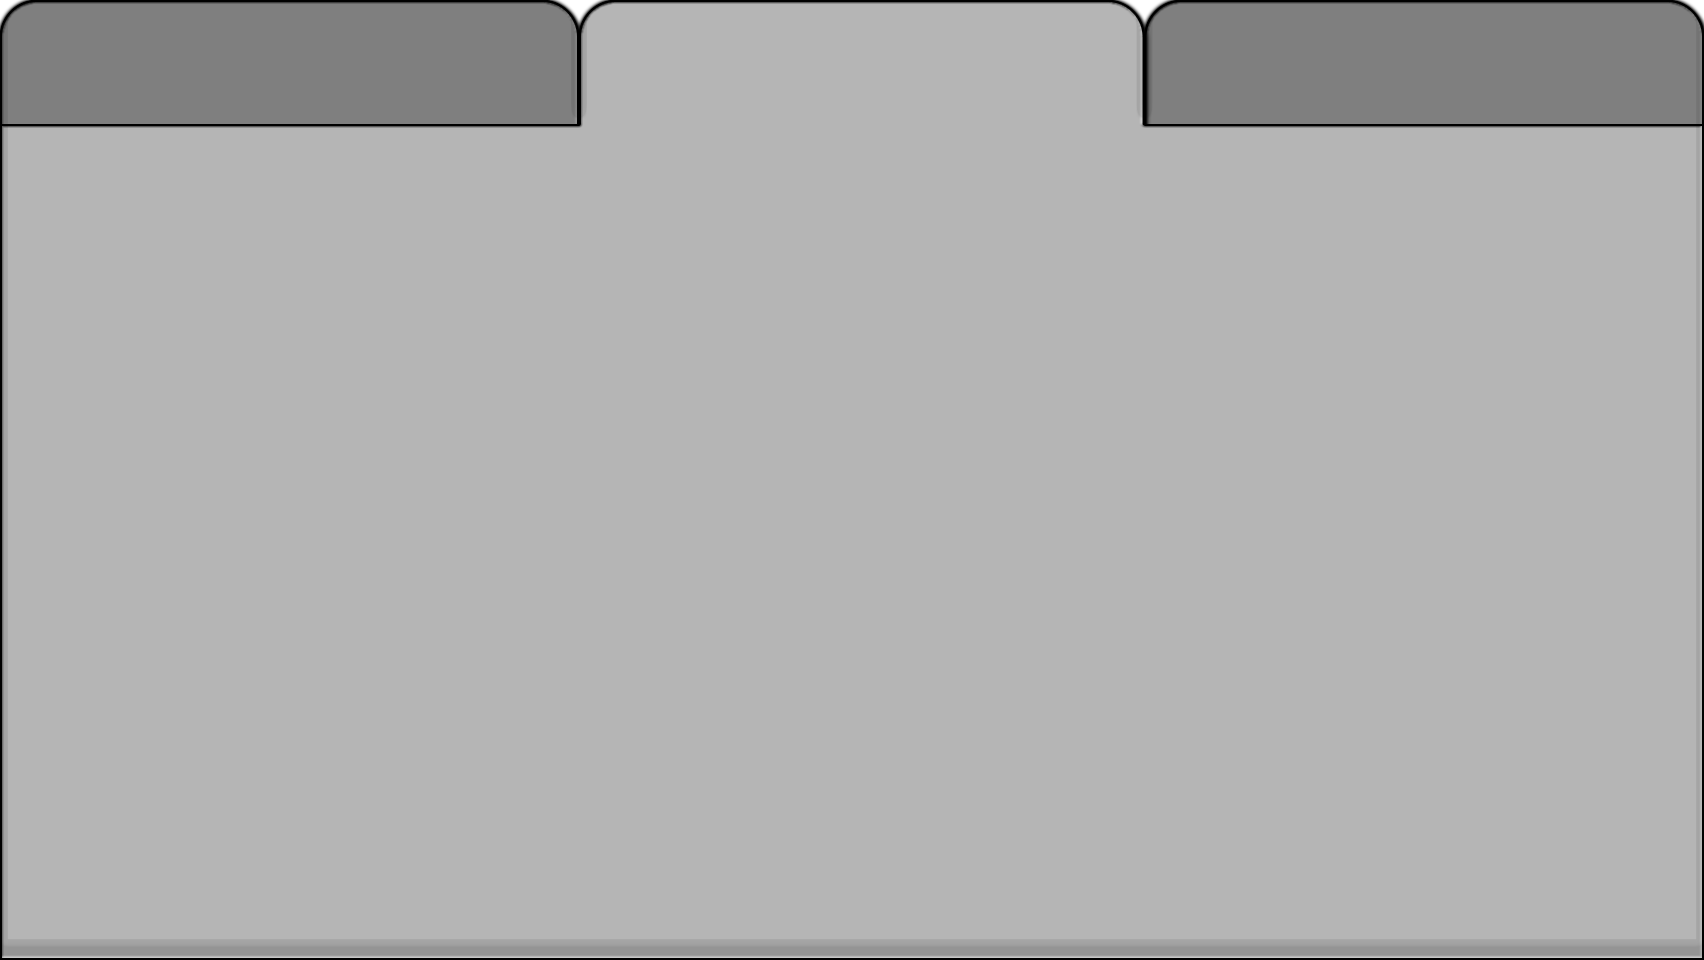
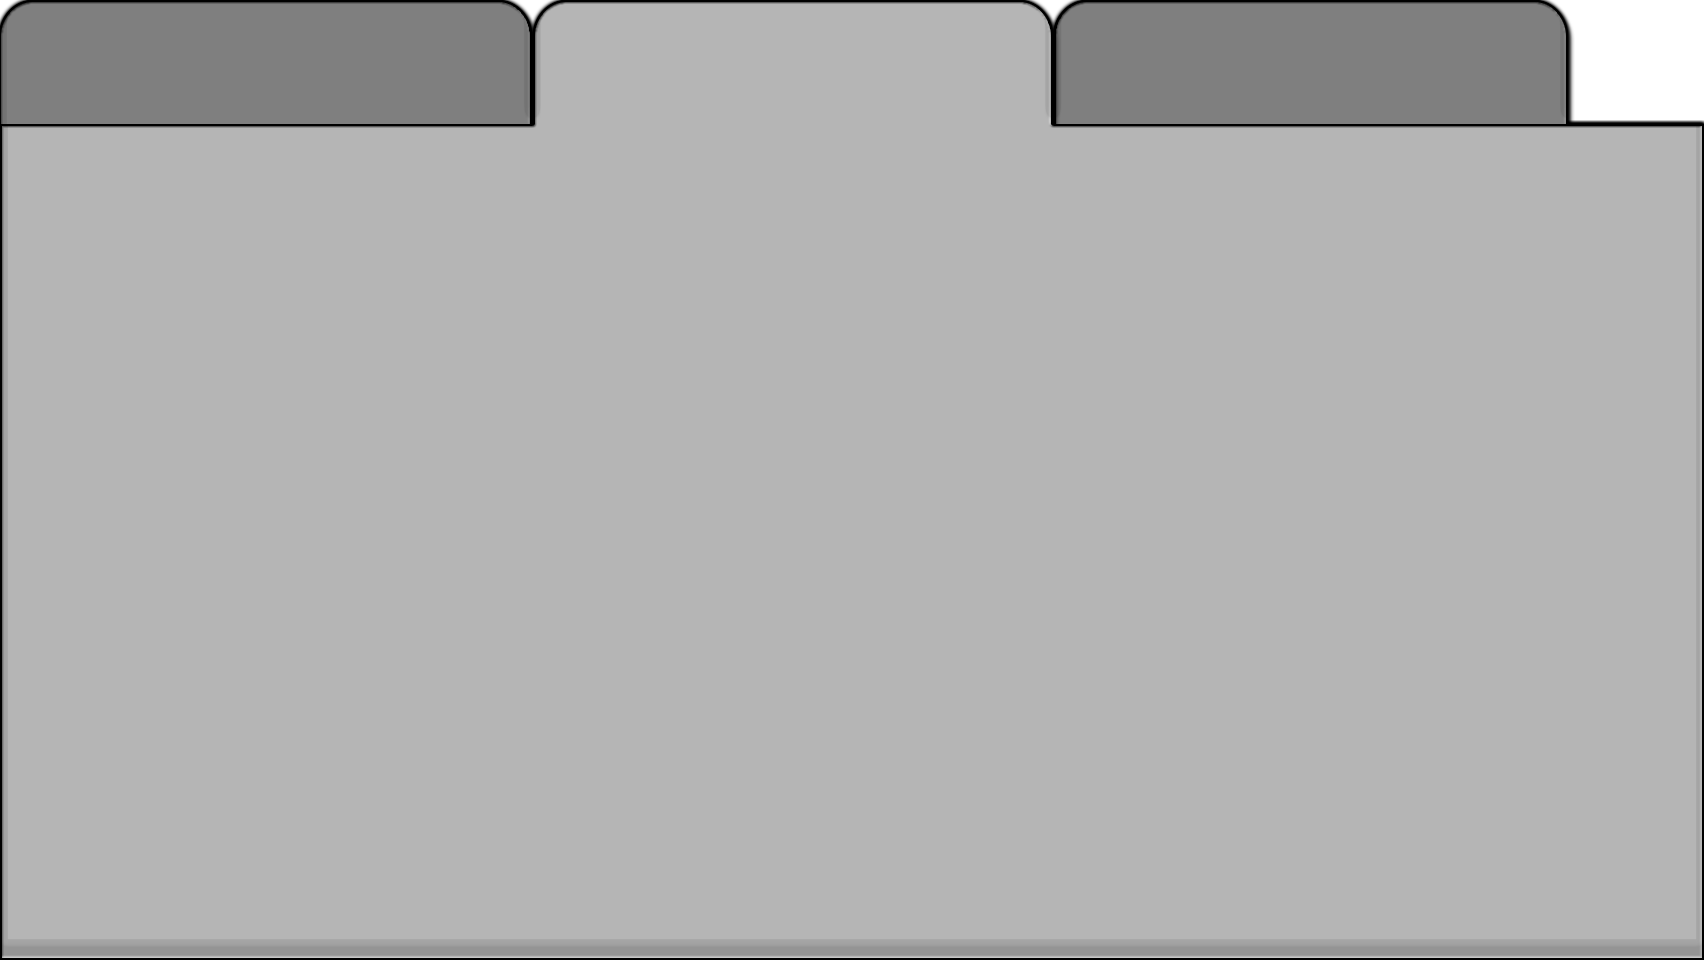
Level Select Home Button and Layout Changes

diff --git a/Classes/LevelSelect.cpp b/Classes/LevelSelect.cpp
@@ -45,7 +45,8 @@ bool LevelSelect::init()
     cocos2d::Vector<MenuItem*> menuItems;
     
     auto onlineLevelsButton = MenuItemImage::create("LevelSelectOnlineButton.png", "LevelSelectOnlineButton.png", this, menu_selector(LevelSelect::onlineCallback));
-    onlineLevelsButton->setPosition(Point(visibleSize.width / 2.0, visibleSize.height));
+    float availableWidth = visibleSize.width - 155 * MainMenu::screenScale.x;
+    onlineLevelsButton->setPosition(Point(availableWidth / 2.0, visibleSize.height));
     onlineLevelsButton->setAnchorPoint(Point(0.5,1.0));
     menuItems.pushBack(onlineLevelsButton);
     
@@ -57,7 +58,7 @@ bool LevelSelect::init()
     menuItems.pushBack(localLevelsButton);
     
     auto myLevelsButton = MenuItemImage::create("LevelSelectMyLevelsButton.png", "LevelSelectMyLevelsButton.png", this, menu_selector(LevelSelect::myLevelsCallback));
-    myLevelsButton->setPosition(Point(visibleSize.width, visibleSize.height));
+    myLevelsButton->setPosition(Point(availableWidth + 11, visibleSize.height));
     myLevelsButton->setAnchorPoint(Point(1.0,1.0));
     menuItems.pushBack(myLevelsButton);
     
@@ -72,6 +73,11 @@ bool LevelSelect::init()
     scrollDownButton->setPosition(Point(visibleSize.width / 2.0, 15));
     scrollDownButton->setAnchorPoint(Point(0.5,0.0));
     menuItems.pushBack(scrollDownButton);
+    
+    auto homeButton = MenuItemImage::create("home.png", "home.png", this, menu_selector(LevelSelect::homeCallback));
+    homeButton->setPosition(Point(visibleSize.width - 5, visibleSize.height - 5));
+    homeButton->setAnchorPoint(Point(1.0,1.0));
+    menuItems.pushBack(homeButton);
     
     onlineLevelsBackground = Sprite::create("LevelSelectOnline.png");
     myLevelsBackground = Sprite::create("LevelSelectMyLevels.png");
@@ -102,6 +108,7 @@ bool LevelSelect::init()
     localLevelsBackground->setScale(MainMenu::screenScale.x, MainMenu::screenScale.y);
     myLevelsBackground->setScale(MainMenu::screenScale.x, MainMenu::screenScale.y);
     onlineLevelsBackground->setScale(MainMenu::screenScale.x, MainMenu::screenScale.y);
+    homeButton->setScale(MainMenu::screenScale.x * 0.75, MainMenu::screenScale.y * 0.75);
     background->setScale(visibleSize.width / background->getTexture()->getPixelsWide(), visibleSize.height / background->getTexture()->getPixelsHigh());
     
     for(int x = 0; x < 3; x++){
@@ -124,7 +131,14 @@ void LevelSelect::editCallback(Ref*){
 
 }
 void LevelSelect::playCallback(Ref*){
-
+    if(HelloWorld::myScene == NULL){
+        Board::Print("Play button click registered.");
+        auto scene = HelloWorld::createScene();
+        Director::getInstance()->pushScene(scene);
+    }
+    else{
+        Director::getInstance()->pushScene(HelloWorld::myScene);
+    }
 };
 void LevelSelect::highscoresCallback(Ref*){
 
@@ -135,6 +149,9 @@ void LevelSelect::scrollUpCallback(Ref*){
 void LevelSelect::scrollDownCallback(Ref*){
 
 };
+void LevelSelect::homeCallback(Ref* ref){
+    Director::getInstance()->pushScene(MainMenu::myScene);
+}
 void LevelSelect::localCallback(Ref*){
     localLevelsBackground->setVisible(true);
     onlineLevelsBackground->setVisible(false);

diff --git a/Classes/LevelMenuItem.cpp b/Classes/LevelMenuItem.cpp
@@ -21,15 +21,15 @@ LevelMenuItem::LevelMenuItem(std::string name, Size visibleSize, int x, int y){
     float x2 = x - backgroundWidth / 2.0;
     
     edit = MenuItemImage::create("LevelSelectEdit.png", "LevelSelectEdit.png", LevelSelect::myScene, menu_selector(LevelSelect::editCallback));
-    edit->setPosition(Point(backgroundWidth * 0.9 + x2, y));
+    edit->setPosition(Point(backgroundWidth * 0.93 + x2, y));
     edit->setAnchorPoint(Point(0.5,0.5));
     
     highscores = MenuItemImage::create("LevelSelectScores.png", "LevelSelectScores.png", LevelSelect::myScene, menu_selector(LevelSelect::highscoresCallback));
-    highscores->setPosition(Point(backgroundWidth * 0.75 + x2, y));
+    highscores->setPosition(Point(backgroundWidth * 0.82 + x2, y));
     highscores->setAnchorPoint(Point(0.5,0.5));
     
     play = MenuItemImage::create("LevelSelectPlay.png", "LevelSelectPlay.png", LevelSelect::myScene, menu_selector(LevelSelect::playCallback));
-    play->setPosition(Point(backgroundWidth * 0.6 + x2, y));
+    play->setPosition(Point(backgroundWidth * 0.71 + x2, y));
     play->setAnchorPoint(Point(0.5,0.5));
     
     edit->setScale(MainMenu::screenScale.x, MainMenu::screenScale.y);

diff --git a/Classes/LevelSelect.h b/Classes/LevelSelect.h
@@ -38,6 +38,7 @@ public:
     void localCallback(Ref*);
     void myLevelsCallback(Ref*);
     void onlineCallback(Ref*);
+    void homeCallback(Ref*);
     
     std::vector<LevelMenuItem*> levels;
     void AddLevel(LevelMenuItem*);
